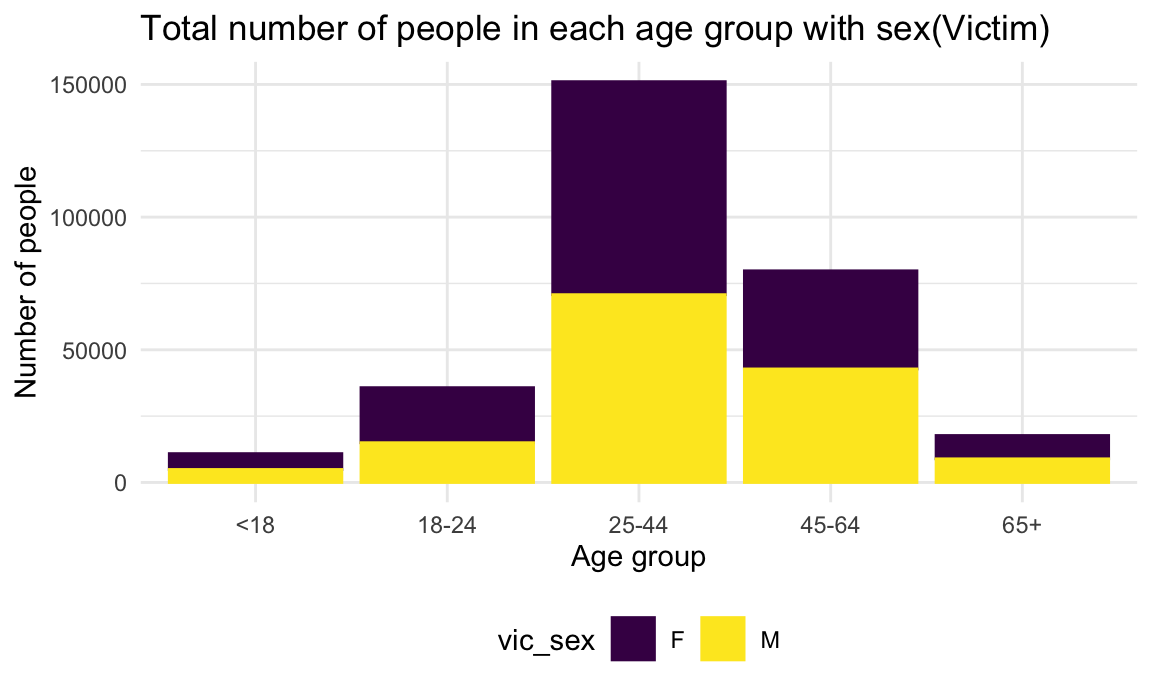
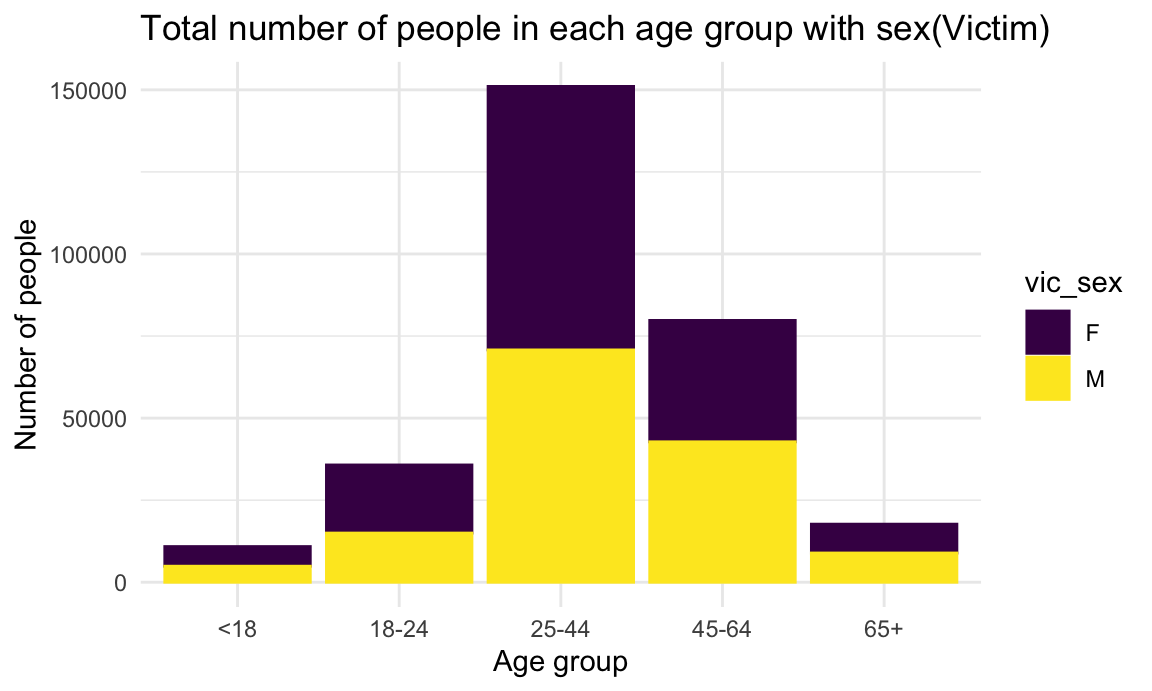
Jessica's last commit

diff --git a/Plot.html b/Plot.html
@@ -9,10 +9,10 @@
 <meta http-equiv="X-UA-Compatible" content="IE=EDGE" />
 
 
-<meta name="author" content="Shiwei Chen" />
+<meta name="author" content="Shiwei(Jessica) Chen" />
 
 
-<title>Plot</title>
+<title>Exploratory Analysis</title>
 
 <script src="site_libs/header-attrs-2.10/header-attrs.js"></script>
 <script src="site_libs/jquery-1.11.3/jquery.min.js"></script>
@@ -388,14 +388,16 @@ div.tocify {
 
 
 
-<h1 class="title toc-ignore">Plot</h1>
-<h4 class="author">Shiwei Chen</h4>
+<h1 class="title toc-ignore">Exploratory Analysis</h1>
+<h4 class="author">Shiwei(Jessica) Chen</h4>
 
 </div>
 
 
 <div id="data-explanation" class="section level2">
 <h2>Data Explanation</h2>
+<p>Our data is the NYPD Complaint history from 2006 to 2020. Since the original data is super large, I choose the data from the whole year of 2020, which is the latest. In addition, the first case of COVID-19 in New York during the pandemic was confirmed on March 1 of 2020, and the city quickly became an epicenter of the pandemic. Using the data from 2020, not only can we analyze the recent state of social security in New York City, but we can also find out the impact of the COVID-19 pandemic on crime rates in New York City.</p>
+<p>I analyzed the crime situation in New York City in three main aspects: suspects, victims, and the level of offense. I counted the number of suspects and victims of each type, as well as the number of cases of each type of offense, so that I could find out the distributions of those three aspects. Below is my detailed analysis.</p>
 </div>
 <div id="data-visualization" class="section level2">
 <h2>Data Visualization</h2>
@@ -422,7 +424,8 @@ susp_age =
     x = &quot;Age group&quot;,
     y = &quot;Number of people&quot;,
     title = &quot;Total number of people in each age group(Suspect)&quot;
-  )
+  ) +
+  theme(legend.position = &quot;right&quot;)
 
 
 susp_race =
@@ -441,7 +444,7 @@ susp_race =
   ) +
   theme(
       axis.text.x = element_text(angle = 270, vjust = 0.5, hjust = 0.5),
-      legend.position = &quot;none&quot;)
+      legend.position = &quot;right&quot;)
 
 susp_sex = 
   susp_df %&gt;% 
@@ -454,7 +457,8 @@ susp_sex =
     x = &quot;Sex&quot;,
     y = &quot;Number of people&quot;,
     title = &quot;Total number of people in each sex group(Suspect)&quot;
-  ) 
+  ) +
+  theme(legend.position = &quot;right&quot;)
 
 susp_agexrace = 
   susp_df %&gt;% 
@@ -468,7 +472,8 @@ susp_agexrace =
     x = &quot;Age group&quot;,
     y = &quot;Number of people&quot;,
     title = &quot;Total number of people in each age group with race(Suspect)&quot;
-  )
+  ) +
+  theme(legend.position = &quot;right&quot;)
 
 
 susp_agexsex = 
@@ -484,7 +489,8 @@ susp_agexsex =
     x = &quot;Age group&quot;,
     y = &quot;Number of people&quot;,
     title = &quot;Total number of people in each age group with sex(Suspect)&quot;
-  )
+  ) +
+  theme(legend.position = &quot;right&quot;)
 
 susp_racexsex = 
   susp_df %&gt;% 
@@ -503,36 +509,54 @@ susp_racexsex =
   ) +
   theme(
       axis.text.x = element_text(angle = 270, vjust = 0.5, hjust = 0.5),
-      legend.position = &quot;none&quot;)</code></pre>
+      legend.position = &quot;right&quot;)</code></pre>
 <div id="age" class="section level4">
 <h4>Age</h4>
 <pre class="r"><code>susp_age</code></pre>
 <p><img src="Plot_files/figure-html/unnamed-chunk-4-1.png" width="90%" /></p>
+<p>Conclusion for Suspect plot:</p>
+<p>We can see from the plots of suspects. In 2020, for factor of age, the group of 25-44 had most people, and 65+ had the fewest people. For factor of race, the group of black race had most people, and American Indian/Alaskan Native had the fewest people. For factor of sex, the number of male is extremely higher than female.</p>
+<p>By the interaction of 3 factors of suspects: age, race, sex, persons whose age were between the ages of 25 to 44, race of Black, and Male have the highest count(number of people) for all types of offense events. While those age were 65 or Older, the race of Native American(American Indian/Alaskan Native), and Female have the lowest count.</p>
 </div>
 <div id="race" class="section level4">
 <h4>Race</h4>
 <pre class="r"><code>susp_race</code></pre>
 <p><img src="Plot_files/figure-html/unnamed-chunk-5-1.png" width="90%" /></p>
+<p>Conclusion for Suspect plot:</p>
+<p>We can see from the plots of suspects. In 2020, for factor of age, the group of 25-44 had most people, and 65+ had the fewest people. For factor of race, the group of black race had most people, and American Indian/Alaskan Native had the fewest people. For factor of sex, the number of male is extremely higher than female.</p>
+<p>By the interaction of 3 factors of suspects: age, race, sex, persons whose age were between the ages of 25 to 44, race of Black, and Male have the highest count(number of people) for all types of offense events. While those age were 65 or Older, the race of Native American(American Indian/Alaskan Native), and Female have the lowest count.</p>
 </div>
 <div id="sex" class="section level4">
 <h4>Sex</h4>
 <pre class="r"><code>susp_sex</code></pre>
 <p><img src="Plot_files/figure-html/unnamed-chunk-6-1.png" width="90%" /></p>
+<p>Conclusion for Suspect plot:</p>
+<p>We can see from the plots of suspects. In 2020, for factor of age, the group of 25-44 had most people, and 65+ had the fewest people. For factor of race, the group of black race had most people, and American Indian/Alaskan Native had the fewest people. For factor of sex, the number of male is extremely higher than female.</p>
+<p>By the interaction of 3 factors of suspects: age, race, sex, persons whose age were between the ages of 25 to 44, race of Black, and Male have the highest count(number of people) for all types of offense events. While those age were 65 or Older, the race of Native American(American Indian/Alaskan Native), and Female have the lowest count.</p>
 </div>
 <div id="age-x-race" class="section level4">
 <h4>Age x Race</h4>
 <pre class="r"><code>susp_agexrace</code></pre>
 <p><img src="Plot_files/figure-html/unnamed-chunk-7-1.png" width="90%" /></p>
+<p>Conclusion for Suspect plot:</p>
+<p>We can see from the plots of suspects. In 2020, for factor of age, the group of 25-44 had most people, and 65+ had the fewest people. For factor of race, the group of black race had most people, and American Indian/Alaskan Native had the fewest people. For factor of sex, the number of male is extremely higher than female.</p>
+<p>By the interaction of 3 factors of suspects: age, race, sex, persons whose age were between the ages of 25 to 44, race of Black, and Male have the highest count(number of people) for all types of offense events. While those age were 65 or Older, the race of Native American(American Indian/Alaskan Native), and Female have the lowest count.</p>
 </div>
 <div id="age-x-sex" class="section level4">
 <h4>Age x Sex</h4>
 <pre class="r"><code>susp_agexsex</code></pre>
 <p><img src="Plot_files/figure-html/unnamed-chunk-8-1.png" width="90%" /></p>
+<p>Conclusion for Suspect plot:</p>
+<p>We can see from the plots of suspects. In 2020, for factor of age, the group of 25-44 had most people, and 65+ had the fewest people. For factor of race, the group of black race had most people, and American Indian/Alaskan Native had the fewest people. For factor of sex, the number of male is extremely higher than female.</p>
+<p>By the interaction of 3 factors of suspects: age, race, sex, persons whose age were between the ages of 25 to 44, race of Black, and Male have the highest count(number of people) for all types of offense events. While those age were 65 or Older, the race of Native American(American Indian/Alaskan Native), and Female have the lowest count.</p>
 </div>
 <div id="race-x-sex" class="section level4">
 <h4>Race x Sex</h4>
 <pre class="r"><code>susp_racexsex</code></pre>
 <p><img src="Plot_files/figure-html/unnamed-chunk-9-1.png" width="90%" /></p>
+<p>Conclusion for Suspect plot:</p>
+<p>We can see from the plots of suspects. In 2020, for factor of age, the group of 25-44 had most people, and 65+ had the fewest people. For factor of race, the group of black race had most people, and American Indian/Alaskan Native had the fewest people. For factor of sex, the number of male is extremely higher than female.</p>
+<p>By the interaction of 3 factors of suspects: age, race, sex, persons whose age were between the ages of 25 to 44, race of Black, and Male have the highest count(number of people) for all types of offense events. While those age were 65 or Older, the race of Native American(American Indian/Alaskan Native), and Female have the lowest count.</p>
 </div>
 </div>
 <div id="victim-plot" class="section level3 tabset">
@@ -556,7 +580,8 @@ vic_age =
     x = &quot;Age group&quot;,
     y = &quot;Number of people&quot;,
     title = &quot;Total number of people in each age group(Victim)&quot;
-  )
+  ) +
+  theme(legend.position = &quot;right&quot;)
 vic_race =
   vic_df %&gt;% 
   group_by(vic_race) %&gt;% 
@@ -573,7 +598,7 @@ vic_race =
   ) +
   theme(
       axis.text.x = element_text(angle = 270, vjust = 0.5, hjust = 0.5),
-      legend.position = &quot;none&quot;)
+      legend.position = &quot;right&quot;)
 vic_sex =
   vic_df %&gt;% 
   group_by(vic_sex) %&gt;% 
@@ -585,7 +610,8 @@ vic_sex =
     x = &quot;Sex&quot;,
     y = &quot;Number of people&quot;,
     title = &quot;Total number of people in each sex group(Victim)&quot;
-  )
+  ) +
+  theme(legend.position = &quot;right&quot;)
 vic_agexrace =
   vic_df %&gt;% 
   group_by(vic_age_group, vic_race) %&gt;% 
@@ -597,7 +623,8 @@ vic_agexrace =
     x = &quot;Age group&quot;,
     y = &quot;Number of people&quot;,
     title = &quot;Total number of people in each age group with race(Victim)&quot;
-  )
+  ) +
+  theme(legend.position = &quot;right&quot;)
 vic_agexsex =
   vic_df %&gt;% 
   group_by(vic_age_group, vic_sex) %&gt;% 
@@ -610,7 +637,8 @@ vic_agexsex =
     x = &quot;Age group&quot;,
     y = &quot;Number of people&quot;,
     title = &quot;Total number of people in each age group with sex(Victim)&quot;
-  )
+  ) +
+  theme(legend.position = &quot;right&quot;)
 vic_racexsex =
   vic_df %&gt;% 
   group_by(vic_race, vic_sex) %&gt;% 
@@ -626,36 +654,54 @@ vic_racexsex =
   ) +
   theme(
       axis.text.x = element_text(angle = 270, vjust = 0.5, hjust = 0.5),
-      legend.position = &quot;none&quot;)</code></pre>
+      legend.position = &quot;right&quot;)</code></pre>
 <div id="age-1" class="section level4">
 <h4>Age</h4>
 <pre class="r"><code>vic_age</code></pre>
 <p><img src="Plot_files/figure-html/unnamed-chunk-11-1.png" width="90%" /></p>
+<p>Conclusion for Victim plot:</p>
+<p>We can see from the plots of victims. In 2020, for factor of age, the group of 25-44 had most people, and 18- had the fewest people. For factor of race, the group of black race had most people, and American Indian/Alaskan Native had the fewest people. For factor of sex, the number of female is slightly higher than male.</p>
+<p>By the interaction of 3 factors of victims: age, race, sex, persons whose age were between the ages of 25 to 44, race of Black commit to the highest count(number of people) for all types of offense events. While those age were 18 or younger, the race of Native American(American Indian/Alaskan Native) have the lowest count. And we might to say that both male and female have the similar victimization rates.</p>
 </div>
 <div id="race-1" class="section level4">
 <h4>Race</h4>
 <pre class="r"><code>vic_race</code></pre>
 <p><img src="Plot_files/figure-html/unnamed-chunk-12-1.png" width="90%" /></p>
+<p>Conclusion for Victim plot:</p>
+<p>We can see from the plots of victims. In 2020, for factor of age, the group of 25-44 had most people, and 18- had the fewest people. For factor of race, the group of black race had most people, and American Indian/Alaskan Native had the fewest people. For factor of sex, the number of female is slightly higher than male.</p>
+<p>By the interaction of 3 factors of victims: age, race, sex, persons whose age were between the ages of 25 to 44, race of Black commit to the highest count(number of people) for all types of offense events. While those age were 18 or younger, the race of Native American(American Indian/Alaskan Native) have the lowest count. And we might to say that both male and female have the similar victimization rates.</p>
 </div>
 <div id="sex-1" class="section level4">
 <h4>Sex</h4>
 <pre class="r"><code>vic_sex</code></pre>
 <p><img src="Plot_files/figure-html/unnamed-chunk-13-1.png" width="90%" /></p>
+<p>Conclusion for Victim plot:</p>
+<p>We can see from the plots of victims. In 2020, for factor of age, the group of 25-44 had most people, and 18- had the fewest people. For factor of race, the group of black race had most people, and American Indian/Alaskan Native had the fewest people. For factor of sex, the number of female is slightly higher than male.</p>
+<p>By the interaction of 3 factors of victims: age, race, sex, persons whose age were between the ages of 25 to 44, race of Black commit to the highest count(number of people) for all types of offense events. While those age were 18 or younger, the race of Native American(American Indian/Alaskan Native) have the lowest count. And we might to say that both male and female have the similar victimization rates.</p>
 </div>
 <div id="age-x-race-1" class="section level4">
 <h4>Age x Race</h4>
 <pre class="r"><code>vic_agexrace</code></pre>
 <p><img src="Plot_files/figure-html/unnamed-chunk-14-1.png" width="90%" /></p>
+<p>Conclusion for Victim plot:</p>
+<p>We can see from the plots of victims. In 2020, for factor of age, the group of 25-44 had most people, and 18- had the fewest people. For factor of race, the group of black race had most people, and American Indian/Alaskan Native had the fewest people. For factor of sex, the number of female is slightly higher than male.</p>
+<p>By the interaction of 3 factors of victims: age, race, sex, persons whose age were between the ages of 25 to 44, race of Black commit to the highest count(number of people) for all types of offense events. While those age were 18 or younger, the race of Native American(American Indian/Alaskan Native) have the lowest count. And we might to say that both male and female have the similar victimization rates.</p>
 </div>
 <div id="age-x-sex-1" class="section level4">
 <h4>Age x Sex</h4>
 <pre class="r"><code>vic_agexsex</code></pre>
 <p><img src="Plot_files/figure-html/unnamed-chunk-15-1.png" width="90%" /></p>
+<p>Conclusion for Victim plot:</p>
+<p>We can see from the plots of victims. In 2020, for factor of age, the group of 25-44 had most people, and 18- had the fewest people. For factor of race, the group of black race had most people, and American Indian/Alaskan Native had the fewest people. For factor of sex, the number of female is slightly higher than male.</p>
+<p>By the interaction of 3 factors of victims: age, race, sex, persons whose age were between the ages of 25 to 44, race of Black commit to the highest count(number of people) for all types of offense events. While those age were 18 or younger, the race of Native American(American Indian/Alaskan Native) have the lowest count. And we might to say that both male and female have the similar victimization rates.</p>
 </div>
 <div id="race-x-sex-1" class="section level4">
 <h4>Race x Sex</h4>
 <pre class="r"><code>vic_racexsex</code></pre>
 <p><img src="Plot_files/figure-html/unnamed-chunk-16-1.png" width="90%" /></p>
+<p>Conclusion for Victim plot:</p>
+<p>We can see from the plots of victims. In 2020, for factor of age, the group of 25-44 had most people, and 18- had the fewest people. For factor of race, the group of black race had most people, and American Indian/Alaskan Native had the fewest people. For factor of sex, the number of female is slightly higher than male.</p>
+<p>By the interaction of 3 factors of victims: age, race, sex, persons whose age were between the ages of 25 to 44, race of Black commit to the highest count(number of people) for all types of offense events. While those age were 18 or younger, the race of Native American(American Indian/Alaskan Native) have the lowest count. And we might to say that both male and female have the similar victimization rates.</p>
 </div>
 </div>
 <div id="level-of-offense" class="section level3 tabset">
@@ -670,7 +716,7 @@ vic_racexsex =
          !(susp_sex == &quot;U&quot;), 
          !(name_of_borough == &quot; &quot;)) %&gt;%   
   filter(susp_age_group == &quot;&lt;18&quot; | susp_age_group == &quot;18-24&quot; | susp_age_group == &quot;25-44&quot; | susp_age_group == &quot;45-64&quot; | susp_age_group == &quot;65+&quot;)</code></pre>
-<pre class="r"><code># 2020 level_of_offense by month,table and gif
+<pre class="r"><code># Count of offense events in each month
 level_of_offense_df %&gt;% 
   group_by(month, level_of_offense) %&gt;% 
   summarise(total_activity = n()) %&gt;% 
@@ -744,7 +790,7 @@ level_of_offense_df %&gt;%
 </tr>
 </tbody>
 </table>
-<pre class="r"><code># Count of offense events in each month
+<pre class="r"><code># 2020 level_of_offense by month,table and gif
 level_of_offense_df %&gt;%
   mutate(level_of_offense = as.factor(level_of_offense),
          month = as.integer(month)) %&gt;% 
@@ -763,7 +809,10 @@ level_of_offense_df %&gt;%
     breaks = c(0, 2, 4, 6, 8, 10, 12), 
     labels = c(0, 2, 4, 6, 8, 10, 12)
   )</code></pre>
-<p><img src="Plot_files/figure-html/unnamed-chunk-19-1.gif" width="90%" /></p>
+<p><img src="Plot_files/figure-html/unnamed-chunk-18-1.gif" width="90%" /></p>
+<p>Conclusion for GIF of Level of offense:</p>
+<p>From the GIF related to the level of offense, we can see misdemeanor happen the most, while violation happen the least. In addition, January has the highest incidence of all types of crime, while April has the lowest incidence.</p>
+<p>We can guess that January is close to some major holidays like Christmas and New Year. From April of 2020, we can see how COVID-19 impact the New York City. Since the first case of COVID-19 in the US, state of New York during the pandemic was confirmed on March 1 of 2020. By March 29, over 30,000 cases were confirmed, and New York City had become the worst-affected area in the United States. Starting March 16, New York City schools were closed. On late March, the New York State governor’s office issued an executive order closing “non-essential” businesses. The city’s public transportation system remained open, but service was substantially reduced. By April, hundreds of thousands of people in NYC were out of work and had to stay at home. Therefore, the number of crime events dramatically decreased.</p>
 <pre class="r"><code>offense_borough = 
   level_of_offense_df %&gt;%
   group_by(name_of_borough, level_of_offense) %&gt;% 
@@ -777,7 +826,7 @@ level_of_offense_df %&gt;%
   ) +
   theme(
       axis.text.x = element_text(angle = 45, vjust = 0.5, hjust = 0.5),
-      legend.position = &quot;none&quot;)
+      legend.position = &quot;right&quot;)
 
 
 offense_age = 
@@ -790,7 +839,8 @@ offense_age =
     x = &quot;Age group&quot;,
     y = &quot;Count&quot;,
     title = &quot;Count of offense events for each age group&quot;
-  )
+  )  +
+  theme(legend.position = &quot;right&quot;)
 
 
 offense_race = 
@@ -806,7 +856,7 @@ offense_race =
   ) +
   theme(
       axis.text.x = element_text(angle = 270, vjust = 0.5, hjust = 0.5),
-      legend.position = &quot;none&quot;)
+      legend.position = &quot;right&quot;)
 
 
 offense_sex = 
@@ -819,26 +869,35 @@ offense_sex =
     x = &quot;Sex&quot;,
     y = &quot;Count&quot;,
     title = &quot;Count of offense events by sex&quot;
-  )</code></pre>
+  ) +
+  theme(legend.position = &quot;right&quot;)</code></pre>
 <div id="borough" class="section level4">
 <h4>Borough</h4>
 <pre class="r"><code>offense_borough</code></pre>
-<p><img src="Plot_files/figure-html/unnamed-chunk-21-1.png" width="90%" /></p>
+<p><img src="Plot_files/figure-html/unnamed-chunk-20-1.png" width="90%" /></p>
+<p>Conclusion for Level of offense:</p>
+<p>In 2020, number of Misdemeanor occurrences was always the highest, felony was the second highest, and violation was the fewest. By the factor of borough, Bronx, Brooklyn, and Manhattan committed the most and similar occurrences, the count of Queens was lower than those three boroughs, and the count of the staten island was the fewest. For the factor of age, the group of 25-44 had most occurrences, and 65+ had the fewest. For factor of race, the group of black race had most occurrences, and American Indian/Alaskan Native had the fewest occurrences. For factor of sex, the number of male is extremely higher than female.</p>
 </div>
 <div id="age-2" class="section level4">
 <h4>Age</h4>
 <pre class="r"><code>offense_age</code></pre>
-<p><img src="Plot_files/figure-html/unnamed-chunk-22-1.png" width="90%" /></p>
+<p><img src="Plot_files/figure-html/unnamed-chunk-21-1.png" width="90%" /></p>
+<p>Conclusion for Level of offense:</p>
+<p>In 2020, number of Misdemeanor occurrences was always the highest, felony was the second highest, and violation was the fewest. By the factor of borough, Bronx, Brooklyn, and Manhattan committed the most and similar occurrences, the count of Queens was lower than those three boroughs, and the count of the staten island was the fewest. For the factor of age, the group of 25-44 had most occurrences, and 65+ had the fewest. For factor of race, the group of black race had most occurrences, and American Indian/Alaskan Native had the fewest occurrences. For factor of sex, the number of male is extremely higher than female.</p>
 </div>
 <div id="race-2" class="section level4">
 <h4>Race</h4>
 <pre class="r"><code>offense_race</code></pre>
-<p><img src="Plot_files/figure-html/unnamed-chunk-23-1.png" width="90%" /></p>
+<p><img src="Plot_files/figure-html/unnamed-chunk-22-1.png" width="90%" /></p>
+<p>Conclusion for Level of offense:</p>
+<p>In 2020, number of Misdemeanor occurrences was always the highest, felony was the second highest, and violation was the fewest. By the factor of borough, Bronx, Brooklyn, and Manhattan committed the most and similar occurrences, the count of Queens was lower than those three boroughs, and the count of the staten island was the fewest. For the factor of age, the group of 25-44 had most occurrences, and 65+ had the fewest. For factor of race, the group of black race had most occurrences, and American Indian/Alaskan Native had the fewest occurrences. For factor of sex, the number of male is extremely higher than female.</p>
 </div>
 <div id="sex-2" class="section level4">
 <h4>Sex</h4>
 <pre class="r"><code>offense_sex</code></pre>
-<p><img src="Plot_files/figure-html/unnamed-chunk-24-1.png" width="90%" /></p>
+<p><img src="Plot_files/figure-html/unnamed-chunk-23-1.png" width="90%" /></p>
+<p>Conclusion for Level of offense:</p>
+<p>In 2020, number of Misdemeanor occurrences was always the highest, felony was the second highest, and violation was the fewest. By the factor of borough, Bronx, Brooklyn, and Manhattan committed the most and similar occurrences, the count of Queens was lower than those three boroughs, and the count of the staten island was the fewest. For the factor of age, the group of 25-44 had most occurrences, and 65+ had the fewest. For factor of race, the group of black race had most occurrences, and American Indian/Alaskan Native had the fewest occurrences. For factor of sex, the number of male is extremely higher than female.</p>
 </div>
 </div>
 </div>
